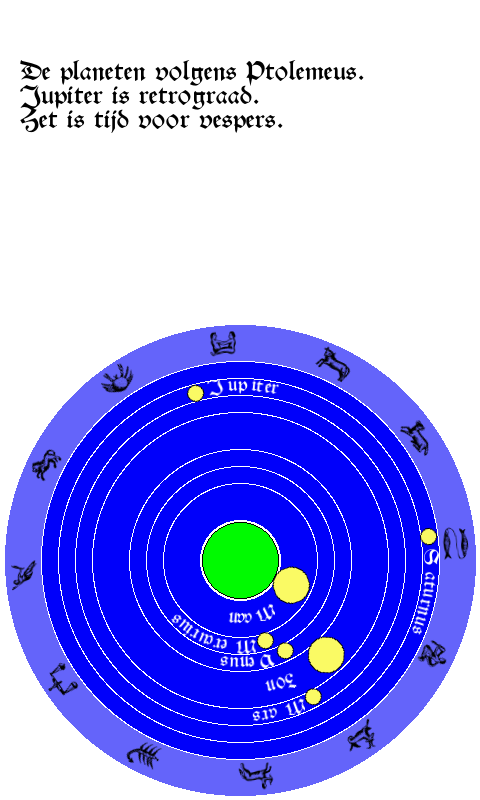
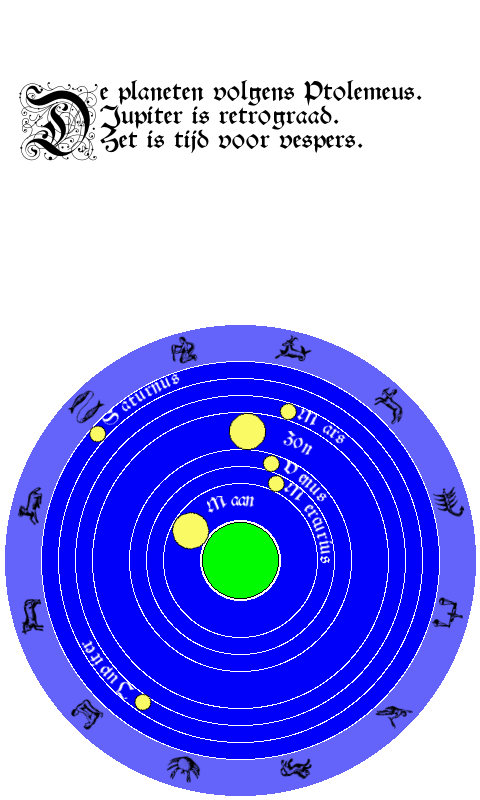
Initaal

diff --git a/ptolemeus.py b/ptolemeus.py
@@ -38,7 +38,7 @@ with open('orbits.csv', 'r') as orbitfile:
 # Fonts
 schwabacher   = ImageFont.truetype("lib/yswab.otf",size=20)
 schwabacher28 = ImageFont.truetype("lib/yswab.otf",size=28)
-kapitaal      = ImageFont.truetype("lib/Yinit.otf",size=80)
+init          = ImageFont.truetype("lib/Yinit.otf",size=80)
 astrologicus  = ImageFont.truetype("lib/Astrologicus.ttf",size=40)
 
 # Sterrenbeelden vanaf lentepunt met icoon uit Astrologicus font
@@ -111,20 +111,23 @@ def teken_dierenriem(straal,phi,d):
 # Teken de beschrijving bovenaan aan de pagina.
 def beschrijving(tekst):
     regellengte = 20
-    woorden = tekst.split()
+    initiaal = tekst[0]
+    woorden = tekst[1:].split()
+    tekstblok = Image.new("RGBA", (480,400), (0, 0, 0, 0))
+    kapitaal = ImageDraw.Draw(tekstblok)
+    kapitaal.text((20, 160), initiaal, anchor="ls", fill=(0,0,0), font=init)
     zin = ''
     regelnummer = 0
-    tekstblok = Image.new("RGBA", (400,400), (0, 0, 0, 0))
     for woord in woorden:
         zin = zin + woord + ' '
         if (len(zin) > regellengte):
             print (len(zin),zin)
             regel = ImageDraw.Draw(tekstblok)
-            regel.text((20, 80+regelnummer*24), zin, anchor="ls", fill=(0,0,0), font=schwabacher28)
+            regel.text((100, 100+regelnummer*24), zin, anchor="ls", fill=(0,0,0), font=schwabacher28)
             zin = ''
             regelnummer += 1
     mask = tekstblok.split()[3]
-    ikoon.paste(tekstblok,(0,0,400,400),mask)
+    ikoon.paste(tekstblok,(0,0,480,400),mask)
    
 # Ptolemeus geeft de ecliptische lengte, de hoek van een planeet ten opzichte van het
 # lentepunt gezien vanuit de Aarde, berekend met Ptolemaeaus epicykels.
